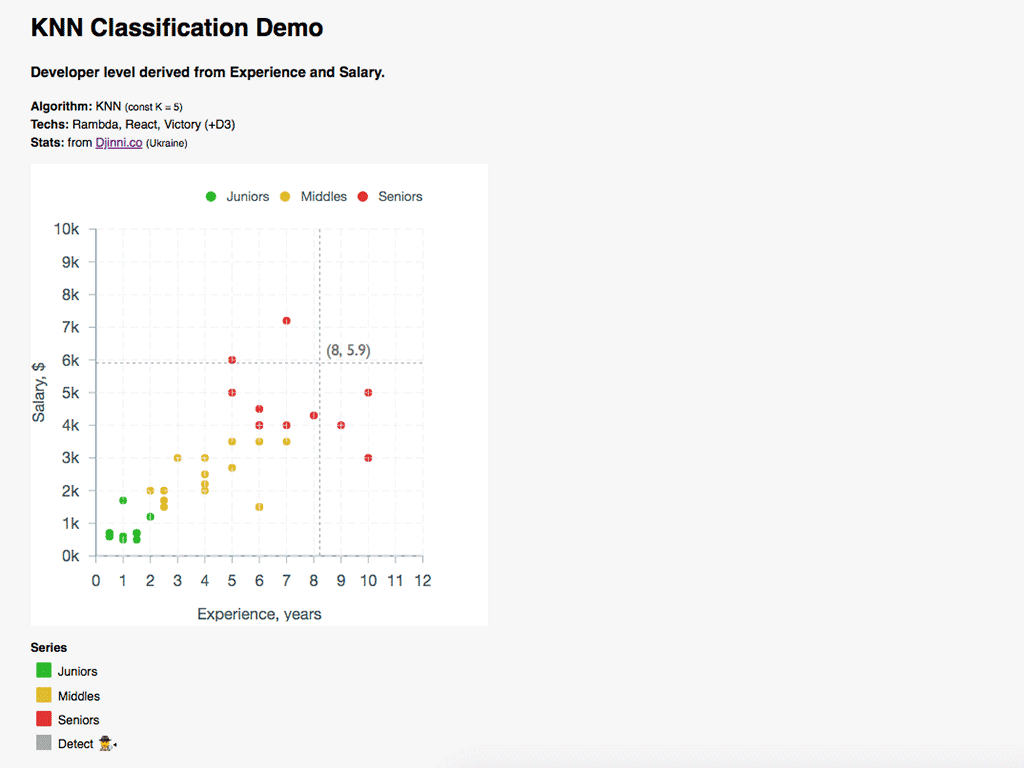
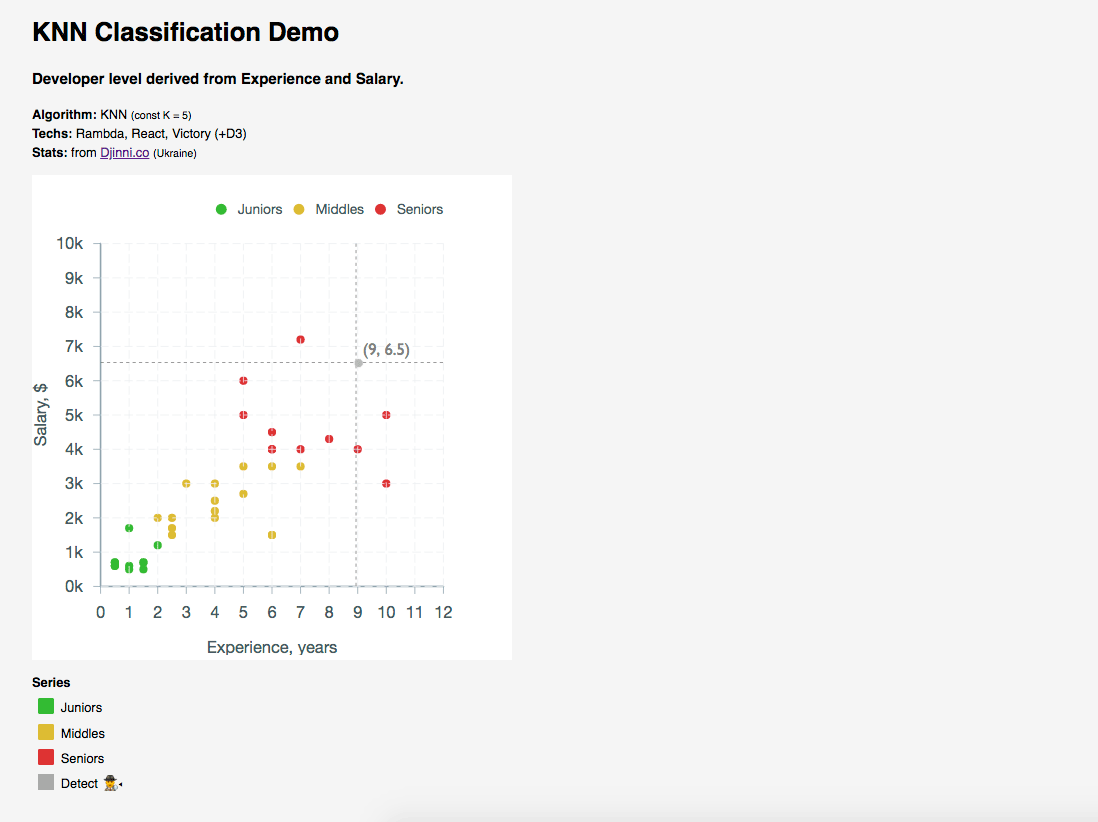
Fix cursor

diff --git a/src/App.js b/src/App.js
@@ -49,7 +49,15 @@ export default function App() {
         <VictoryChart
           theme={VictoryTheme.material}
           domain={{x: [0, 12], y: [0, 10]}}
-          containerComponent={makeContainerComponent({ref})}
+          containerComponent={<VictoryCursorContainer
+            cursorLabel={cursorLabel}
+            cursorLabelComponent={<VictoryLabel style={{fontSize: 12, fill: "grey"}}/>}
+            onCursorChange={(data) => {
+              let {x, y} = data ? data : {x: 0, y: 0}
+              ref.current = {experience: roundToDotFive(x), salary: round(y, 1)}
+            }}
+            cursorComponent={<LineSegment style={{stroke: "grey", strokeDasharray: "4 4"}}/>}
+          />}
           events={[{
             target: "parent",
             eventHandlers: {
@@ -92,18 +100,6 @@ function Description() {
       <strong>Stats:</strong> from <a href="https://djinni.co">Djinni.co</a> <small>(Ukraine)</small><br/>
     </p>
   </>
-}
-
-function makeContainerComponent({ref}) {
-  return <VictoryCursorContainer
-    cursorLabel={cursorLabel}
-    cursorLabelComponent={<VictoryLabel style={{fontSize: 12, fill: "grey"}}/>}
-    onCursorChange={(data) => {
-      let {x, y} = data ? data : {x: 0, y: 0}
-      ref.current = {experience: roundToDotFive(x), salary: round(y, 1)}
-    }}
-    cursorComponent={<LineSegment style={{stroke: "grey", strokeDasharray: "4 4"}}/>}
-  />
 }
 
 function makeAxisX() {
